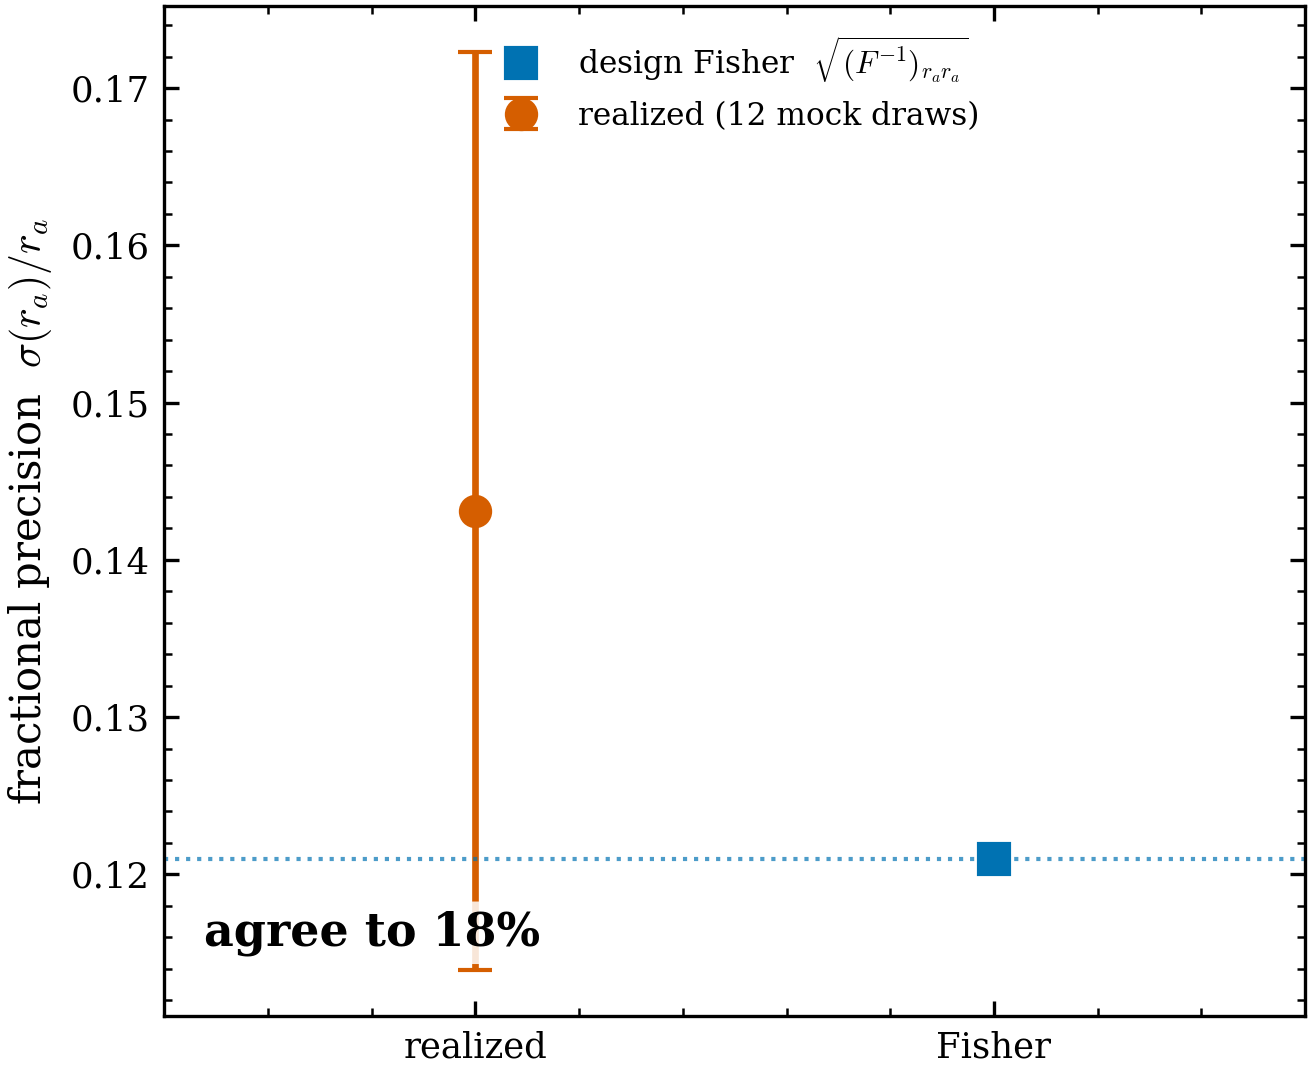
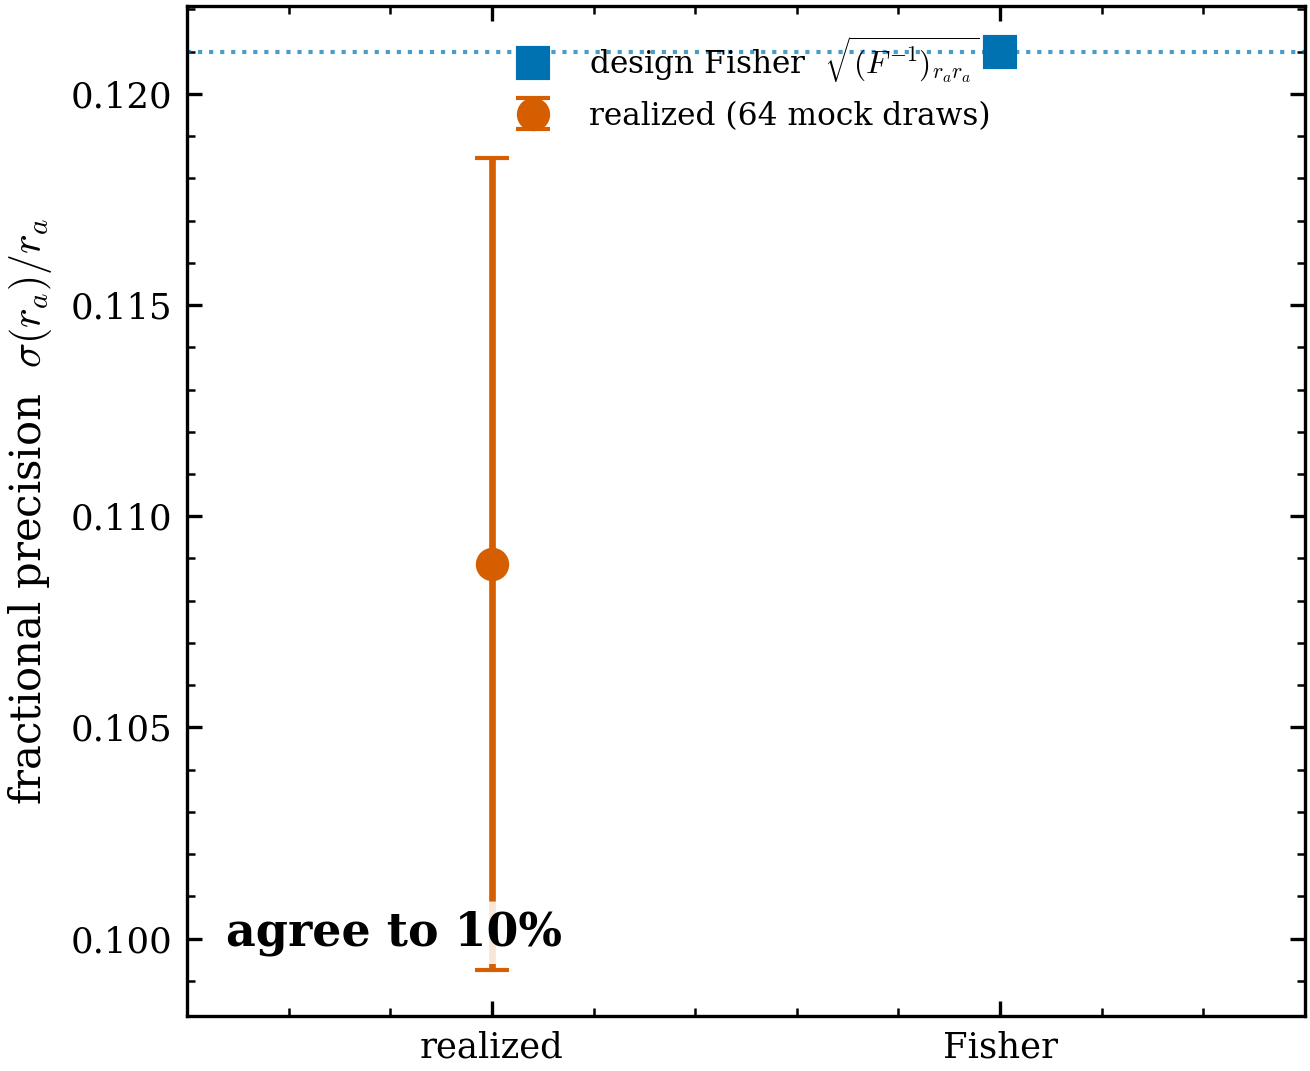
docs(oed): B14 optimal-design science page + 64-draw calibration figure

diff --git a/docs/website/60-science-demos/optimal-design.md b/docs/website/60-science-demos/optimal-design.md
@@ -1,0 +1,324 @@
+---
+title: Optimal experimental design — where to spend telescope time on r_a (B14)
+description: "A pure pre-data Bayesian optimal-experimental-design demo. Given a fixed star budget, the additive design Fisher allocates stars across (projected radius x {RV, PM_R, PM_T}) to minimize the marginal variance of the Osipkov-Merritt anisotropy radius r_a. The optimizer DISCOVERS that proper-motion stars belong in the outskirts (where beta(r) is largest): the PM fraction rises from 0.73 in the core to 0.95 outside, the c-optimal design reaches equal precision on r_a with 3.66x fewer stars than uniform (sigma(r_a)/r_a 12.1% -> 6.3%), and a 64-draw calibration confirms the pre-data Fisher predicts the realized scatter (mildly conservative)."
+---
+
+# Optimal experimental design — where to spend telescope time on $r_a$ (B14)
+
+The other Batch-B/C demos answer *can you recover a parameter from data you
+already have?* This one asks the question that comes **before** any data exist:
+given a fixed star budget, **where on the sky and in which kinematic channel
+should you spend it** to learn the most about one target parameter? That is
+**optimal experimental design** (OED) — designing the *observation*, not just
+analysing it.
+
+The target here is the **Osipkov–Merritt anisotropy radius** $r_a$, which sets
+where stellar orbits turn radial via $\beta(r)=r^2/(r^2+r_a^2)$ (the
+[anisotropy demo, B6](anisotropy.md) measures it; here we design *how* to measure
+it). The lever is the choice of **kinematic channel** — line-of-sight radial
+velocity (RV) versus the two proper-motion (PM) components — across projected
+radius. The headline result is **emergent and interpretable**: the optimizer is
+told nothing about anisotropy physics, yet it *discovers* that proper-motion
+stars belong in the **outskirts** and RV stars in the centre, because the
+Binney & Mamon (1982) PM kernels carry the anisotropy $\beta(r)$, which grows
+outward.
+
+## Inputs and assumptions
+
+The design optimises over a **fixed budget** of $N_{\rm total}$ stars allocated
+across $K=12$ projected-radius bins $\times$ 3 kinematic channels (36 cells).
+The science target is $r_a$; total mass $M$ and half-mass radius $r_h$ are
+nuisances carried with fractional priors. Everything is computed *pre-data* — no
+mock catalogue enters the optimisation loop (one calibration draw afterwards is a
+gate, not part of the design).
+
+```{list-table} Model inputs
+:header-rows: 1
+:label: tbl-b14-inputs
+
+* - Input
+  - Meaning and role
+  - Status (fiducial)
+* - $r_a$
+  - Osipkov–Merritt anisotropy radius — **the science target**; $\beta_{\rm OM}(r)=r^2/(r^2+r_a^2)$. c-optimality minimises *its* marginal variance.
+  - **target** ($6.0$ pc $=2\,r_h$; well inside OM validity $r_a\gg0.75\,a$)
+* - $M$, $r_h$
+  - Total mass and Plummer half-mass radius — **nuisances**, profiled out; each carries a 30% fractional ($d\ln\theta$) prior (e.g. $M$ from integrated light, $r_h$ from photometry).
+  - nuisances ($M=10^5\,\Msun$, $r_h=3.0$ pc) with $\sigma_{\rm prior}/\theta=0.3$
+* - 3 kinematic channels
+  - RV ($\sigma_{\rm los}$), PM radial ($\sigma_{{\rm pm},R}$), PM tangential ($\sigma_{{\rm pm},T}$) — the **design lever**; each channel's information content is set by the B&M82 projection kernels (below).
+  - fixed (the design allocates stars *among* them)
+* - $d$, $\sigma_{\rm RV}$, $\sigma_{\rm PM}$
+  - Distance converts the astrometric error to velocity; per-star errors enter the per-datum variance $\delta\sigma^2=(\sigma^2+\epsilon^2)/(2n)$. At $d=4$ kpc the two channels are at **deliberate error parity** — neither trivially dominates.
+  - fixed ($d=4$ kpc; $\sigma_{\rm RV}=1.0$ km/s; $\sigma_{\rm PM}=0.05$ mas/yr $\to 4.74\,\sigma_{\rm PM}\,d\approx0.95$ km/s)
+* - completeness $c(R)$
+  - **Fixed realism**, identical across channels: a smooth logistic faint-end roll-off ($\approx1$ in the core, $<1$ outside, turnover $\sim2\,r_h$). Illustrative, *not* a real survey curve, and *not* a design knob in Stage 1.
+  - fixed (folds into the per-star blocks)
+* - $K$ bins, budget, optimiser
+  - $K=12$ log-spaced bin centres $R_k\in[0.3,3]\,r_h$; budget $N_{\rm total}$ (default 4000, swept for the frontier); multi-start Adam over the softmax simplex.
+  - numerical choices
+* - units, $G$
+  - `STELLAR` ($\Msun$, pc, Myr); errors converted to pc/Myr explicitly ($1$ km/s $=1/0.977792$ pc/Myr).
+  - known / fixed
+```
+
+```{important}
+:label: imp-b14-dimensionless
+**The Fisher is built in the dimensionless $\ln\theta$ metric (ADR 0011).** The
+parameters span five orders of magnitude ($M\approx10^5$ vs $r_h\approx3$), so the
+raw-unit Fisher is wildly ill-conditioned ($\mathrm{cond}\approx1.7\times10^9$)
+and the A/D criteria are not scale-invariant. Differentiating with respect to
+$\ln\theta$ ($J\to J\cdot\mathrm{diag}(\theta_{\rm fid})$) makes $F$
+**dimensionless** ($\mathrm{cond}\approx45$), every covariance entry a
+**fractional variance**, and the c-headline a **fractional precision**
+$\sigma(r_a)/r_a$. The nuisance prior is fractional too,
+$\mathtt{PRIOR\_DIAG}=[0,\,1/0.3^2,\,1/0.3^2]$ (none on the target).
+```
+
+## The method: an additive, design-linear Fisher
+
+The load-bearing idea (ADR 0004) is that the **design Fisher is additive and
+linear in the design**. For a design that places $n_{b,c}$ stars in radial bin
+$b$ and channel $c$,
+
+```{math}
+:label: b14-additive-fisher
+F(\text{design}) \;=\; \sum_{b,\,c} n_{{\rm eff},\,b,c}\; M_{b,c},
+\qquad
+n_{{\rm eff},\,b,c} = n_{b,c}\cdot c(R_b),
+```
+
+where each **per-star block** is the design-*independent* $3\times3$ rank-1 matrix
+
+```{math}
+:label: b14-perstar-block
+M_{b,c} \;=\; \frac{2\,J_{b,c}\,J_{b,c}^{\mathsf T}}{\sigma^2_{b,c} + \epsilon_c^2},
+\qquad
+J_{b,c} = \frac{\partial\,\sigma^{\rm pred}_{b,c}}{\partial\ln\theta},
+```
+
+from the Gaussian information of a dispersion measured from $n$ stars
+($\delta\sigma^2=(\sigma^2+\epsilon^2)/(2n)$).
+
+**Why this dodges re-differentiating the forward model.** The Jacobian $J_{b,c}$
+is computed **once**, by a single reverse-mode `jacrev` through the packaged
+`project_dispersion`, at the truth $\theta=(r_a,M,r_h)$. The design then enters
+{eq}`b14-additive-fisher` *only* as the linear weights $n_{b,c}$ — so the entire
+optimisation is $F=\sum n\,(c\,M)$, invert a $3\times3$, read one element. The
+B&M82 projection (an ODE/quadrature stack) is never differentiated inside the
+optimiser loop; the gradients $\partial(\text{criterion})/\partial(\text{design})$
+are pure linear algebra over the precomputed blocks. We use `jacrev` (reverse
+mode) because it is the supported, tested AD path for *all* profiles and stays
+correct if a King/Michie mock is ever swapped in (those equilibrium-solver
+profiles hit a `custom_vjp` ODE with no forward-mode rule). On the Plummer path
+used here there is no ODE, so forward-mode would also work — `jacrev` is the
+robust choice, not a forced one.
+
+**The B&M82 projection — where the channels get their information.** The three
+observed dispersions are the Binney & Mamon (1982, MNRAS 200, 361) line-of-sight
+projection of the 3-D anisotropic Jeans model, with OM anisotropy
+$\beta(r)=r^2/(r^2+r_a^2)$ {cite:p}`Merritt1985`:
+
+```{math}
+:label: b14-bm82
+\begin{aligned}
+\Sigma\,\sigma_{\rm los}^2(R)   &= 2\!\int_R^\infty \Big(1 - \beta\,\tfrac{R^2}{r^2}\Big)\,\rho\,\sigma_r^2\;\frac{r\,dr}{\sqrt{r^2-R^2}},\\
+\Sigma\,\sigma_{{\rm pm},R}^2(R)&= 2\!\int_R^\infty \Big(1 - \beta + \beta\,\tfrac{R^2}{r^2}\Big)\,\rho\,\sigma_r^2\;\frac{r\,dr}{\sqrt{r^2-R^2}},\\
+\Sigma\,\sigma_{{\rm pm},T}^2(R)&= 2\!\int_R^\infty \big(1 - \beta\big)\,\rho\,\sigma_r^2\;\frac{r\,dr}{\sqrt{r^2-R^2}}.
+\end{aligned}
+```
+
+In the isotropic limit ($\beta=0$) all three kernels collapse to 1 and
+$\sigma_{\rm los}=\sigma_{{\rm pm},R}=\sigma_{{\rm pm},T}$ — **anisotropy lives
+only in the ratios**, and the tangential PM kernel $(1-\beta)$ is the most direct
+$\beta(r)$ probe. Since $\beta(r)$ grows outward, the PM channels carry *more*
+information about $r_a$ at large $R$ — the physics the optimiser is about to
+rediscover on its own.
+
+**Three optimality criteria** ride the same $F=\sum n\,(c\,M)$:
+
+```{math}
+:label: b14-criteria
+\underbrace{c\!:\;\min\,(F^{-1})_{r_a r_a}}_{\text{target the }r_a\text{ variance}}
+\qquad
+\underbrace{D\!:\;\max\,\log\det F}_{\text{the whole }\theta\text{ democratically}}
+\qquad
+\underbrace{A\!:\;\min\,\mathrm{tr}\,F^{-1}}_{\text{total fractional variance}}.
+```
+
+c-optimality targets $r_a$ *after profiling out* $M,r_h$ (the $(r_a,r_a)$ element
+of the full inverse); D and A weight all three parameters together. Under the
+$M\!\leftrightarrow\!r_a$ (through $GM$) and $r_h\!\leftrightarrow\!r_a$
+degeneracies, c allocates to **different radii** than D/A — which is the
+criterion-disagreement lesson made visible below.
+
+## Figures
+
+### The headline — PMs to the outskirts
+
+:::{figure} figures/demo_oed_headline.png
+:label: fig-oed-headline
+:width: 90%
+
+**The c-optimal design tracks the OM anisotropy $\beta(R)$.** Left axis: the
+three predicted dispersion channels $\sigma_{\rm los}$, $\sigma_{{\rm pm},R}$,
+$\sigma_{{\rm pm},T}$ (km/s) vs projected radius. Right axis: the c-optimal
+**PM allocation fraction** $(n_{{\rm pm},R}+n_{{\rm pm},T})/\sum_c n$ per bin
+(purple) plotted against $\beta_{\rm OM}(R)=R^2/(R^2+r_a^2)$ (dashed). The design
+— told nothing about anisotropy — pushes the PM share from $0.73$ in the core to
+$0.95$ in the outskirts, *following* $\beta(R)$: proper motions go where the
+anisotropy signal is.
+:::
+
+### c vs D vs A — why the criteria disagree
+
+:::{figure} figures/demo_oed_cda.png
+:label: fig-oed-cda
+:width: 100%
+
+**The c-, D-, and A-optimal allocations differ.** Each panel stacks the effective
+star count $n_{\rm eff}$ per channel over radius for one criterion. The c-design
+(targeting $r_a$ alone) loads the **PM channels in the outskirts** hardest; the
+D- and A-designs, which must constrain $M$ and $r_h$ too, also load the **core**,
+where the density and overall normalisation are best pinned. Different objectives
+genuinely want stars at different radii — the disagreement is shown, not asserted.
+:::
+
+### The precision frontier — fewer stars at equal precision
+
+:::{figure} figures/demo_oed_frontier.png
+:label: fig-oed-frontier
+:width: 80%
+
+**The c-optimal design reaches equal precision with $\approx3.9\times$ fewer
+stars.** Realized fractional precision $\sigma(r_a)/r_a=\sqrt{c}$ vs star budget
+$N_{\rm total}$, recomputed (not extrapolated) for the uniform and c-optimal
+designs. The horizontal arrow is the equal-precision star factor at the reference
+precision. The curves are **mildly non-$1/N$** because the fixed nuisance prior
+dilutes as $N$ grows (the c-opt slope departs slightly from $-1/2$) — the
+honest, real frontier rather than an idealised $c\propto1/N$ line.
+:::
+
+### Calibration — the pre-data Fisher is trustworthy
+
+:::{figure} figures/demo_oed_calibration.png
+:label: fig-oed-calibration
+:width: 70%
+
+**A 64-draw mock ensemble confirms the design Fisher predicts the realized
+scatter.** The realized fractional precision $\sigma(r_a)/r_a$ (orange, with its
+Monte-Carlo error band from 64 draws) sits at $0.109$, just below the
+Fisher-predicted $0.121$ (blue): the pre-data Fisher is **mildly conservative**
+(the binned-dispersion estimator loses a little information relative to the
+idealised per-star Fisher), and the two agree within the MC error. This is the
+gate that makes the pre-data design trustworthy.
+:::
+
+### Optimiser convergence
+
+:::{figure} figures/demo_oed_optpath.png
+:label: fig-oed-optpath
+:width: 70%
+
+**All three alphabet-optimality objectives converge cleanly.** Each curve is the
+best-start suboptimality gap $(c_t-c_\infty)/(c_0-c_\infty)$ vs Adam iteration,
+normalised to the initial gap (the c, D, A objectives live on different scales and
+signs, so the normalised gap is the like-for-like view). Every objective descends
+monotonically to its converged design.
+:::
+
+## Quantitative results
+
+All numbers are from the gated CLI's run-record (`--full`, 64-draw calibration,
+$N_{\rm total}=4000$):
+
+```{list-table} OED Stage-1 results
+:header-rows: 1
+:label: tbl-b14-results
+
+* - Quantity
+  - Result
+* - Equal-precision star factor (c-design vs uniform, **fixed $N$**)
+  - $\mathbf{3.66\times}$ fewer stars ($\approx3.9\times$ on the swept frontier)
+* - $\sigma(r_a)/r_a$, uniform $\to$ c-optimal (at fixed $N$)
+  - $\mathbf{12.1\% \to 6.3\%}$
+* - PM allocation fraction, inner-half $\to$ outer-half (c-design)
+  - $\mathbf{0.73 \to 0.95}$ (PMs favoured outward)
+* - Calibration: realized $\sigma(r_a)/r_a$ vs Fisher
+  - $0.109$ (realized) vs $0.121$ (Fisher) — $19\%$ variance-space dev, gate $35\%$
+* - c-criterion $(F^{-1})_{r_a r_a}$: uniform / c-opt / D-opt / A-opt
+  - $1.46 / 0.40 / 0.59 / 0.59 \times10^{-2}$ (c-design lowest on its own objective)
+```
+
+The equal-precision factor is **exact at fixed $N$** (the fixed nuisance prior
+cancels in the $c_{\rm uniform}/c_{\rm designed}$ ratio); the "$\approx3.9\times$
+fewer stars" gloss on the frontier is the same physics read off the swept budget
+curve, where the prior no longer cancels and the slope departs mildly from
+$1/N$.
+
+## Current scope and planned extensions
+
+```{warning}
+Stage 1 is a **pre-data, single-shot OED on a clean self-consistent mock**. Its
+boundaries, stated honestly:
+
+- **The RV channel is under-utilised *at the chosen error parity*.** At
+  $d=4$ kpc the per-star RV and PM errors are deliberately matched, but PM
+  delivers **two** components ($R$ and $T$) at that same per-star error, so the
+  optimiser prefers it almost everywhere — the RV ($v_{\rm los}$) channel carries
+  little of the budget. This is a **real, documented consequence of the error
+  parity**, not a bug: were the RV errors smaller (better spectroscopy, or PM
+  errors that grow with distance), RV would carry more of the load. The
+  "PMs to the outskirts" result is the *radial* trend within the PM-favoured
+  regime, which is robust.
+- **Single line-of-sight projection.** LOS $=\hat z$; no flattening, no rotation,
+  no inclination — those are versatility-roadmap items.
+- **Fixed completeness — depth is not yet a design knob.** The faint-end
+  roll-off is applied identically to all channels as fixed realism. Making the
+  magnitude limit / depth a *design variable* (and adding $M_{\rm dyn}$) is
+  **Stage 2**.
+- **OM-Plummer equilibrium mock only.** Truth and forward model share the same
+  generative family (isotropic Plummer density under exact Osipkov–Merritt
+  anisotropy); no model misspecification, no real catalogue, no cross-channel
+  systematics.
+- **The Fisher is a local, Gaussian (Cramér–Rao) approximation.** It is exact
+  only in the high-information / linearised limit. **The calibration draw is
+  precisely the check** that it predicts the realized scatter — and it does, to
+  within the Monte-Carlo error (mildly conservative, {numref}`fig-oed-calibration`).
+- **The $c\propto1/N$ star-count gloss is approximate.** With a fixed nuisance
+  prior, $c\cdot N$ drifts ($\sim18\%$ over $N=10^3$–$8\times10^3$); the
+  fixed-$N$ equal-precision factor is the exact headline, the frontier curve is
+  the honest extrapolation.
+- **Static single-shot — no sequential OED.** The design is computed once; there
+  is no online/adaptive re-design as data arrive.
+
+**Deferred:** **Stage 2** (magnitude-limit / $M_{\rm dyn}$ — depth as a design
+knob) and **Stage 3** (multi-epoch astrometry / explicit cost budget). On the
+versatility roadmap: rotation, flattening, and the tracer $\neq$ mass case.
+```
+
+## How to run
+
+```bash
+# quick (12-draw calibration, ~1 min)
+env -u VIRTUAL_ENV uv run --no-sync python scripts/demo_oed.py
+
+# publication-grade (64-draw calibration, ~4 min) — regenerates the figures here
+env -u VIRTUAL_ENV uv run --no-sync python scripts/demo_oed.py --full
+```
+
+The CLI is gated (exit 0 only if the headline factor, PM-outskirts trend, and
+calibration all pass) and writes a JSON run-record alongside the five figures.
+
+## References
+
+The Osipkov–Merritt anisotropy law $\beta(r)=r^2/(r^2+r_a^2)$ is
+{cite:t}`Merritt1985`; the line-of-sight projection of an anisotropic spherical
+model into $\sigma_{\rm los}$, $\sigma_{{\rm pm},R}$, $\sigma_{{\rm pm},T}$ is
+Binney & Mamon (1982, MNRAS 200, 361). The differentiable `project_dispersion`
+forward model is documented on the
+[velocity-DF kinematics](../10-theory/velocity-dfs/rotation-anisotropy.md)
+pages; the anisotropy *recovery* counterpart is the
+[anisotropy demo (B6)](anisotropy.md), and [B8](rotation.md) introduces the same
+sky-projection helper.
+```

diff --git a/docs/website/60-science-demos/index.md b/docs/website/60-science-demos/index.md
@@ -77,6 +77,9 @@ seeds + methods showcases):
 * - [Rotation + projection](rotation.md) (B8)
   - Recover the rotation rate from $\langle v_{\rm los}\rangle$?
   - only $\omega\sin i$ — rank-1 with inclination
+* - [Optimal experimental design](optimal-design.md) (B14)
+  - *Pre-data:* where to spend a star budget to pin $r_a$?
+  - PMs to the outskirts; $3.66\times$ fewer stars at equal precision
 ```
 
 ## The shared method: physics-direct differentiable inference
